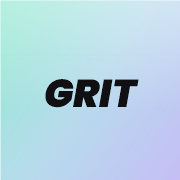
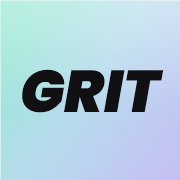
Give the home-screen web app the full screen height, enlarge GRIT
Pinning the root to the edges did not remove the strip under the tab bar:
screenshots from an iPhone showed it is exactly one status bar tall, so in
standalone mode with a translucent status bar WebKit reports the viewport
one status bar shorter than the screen. When the page runs standalone and
innerHeight is below screen.height, the root now takes the screen's height;
anywhere the two match - a Safari tab, other phones, a fixed WebKit - it is
left alone.

The icon's GRIT now spans about 80% of the width, clear of iOS's corner mask.

Changed region(s): [[0.1111, 0.3611, 0.9167, 0.6389]]

diff --git a/public/index.html b/public/index.html
@@ -61,5 +61,31 @@
     <noscript>Za GRIT je potreban JavaScript.</noscript>
     <!-- The root element for your Expo app. -->
     <div id="root"></div>
+    <script>
+      // Opened from the iOS home screen with a translucent status bar, the page is
+      // told it is one status bar shorter than the screen, which left a black strip
+      // under the tab bar. When that happens, the root takes the real screen height.
+      // Elsewhere — a Safari tab, other phones, a WebKit that reports it right —
+      // the heights match and nothing changes.
+      (function () {
+        function fit() {
+          var root = document.getElementById('root');
+          if (!root) return;
+          var standalone =
+            window.navigator.standalone === true ||
+            (window.matchMedia && window.matchMedia('(display-mode: standalone)').matches);
+          if (standalone && window.innerHeight < window.screen.height) {
+            root.style.bottom = 'auto';
+            root.style.height = window.screen.height + 'px';
+          } else {
+            root.style.bottom = '';
+            root.style.height = '';
+          }
+        }
+        fit();
+        window.addEventListener('resize', fit);
+        window.addEventListener('orientationchange', fit);
+      })();
+    </script>
   </body>
 </html>
